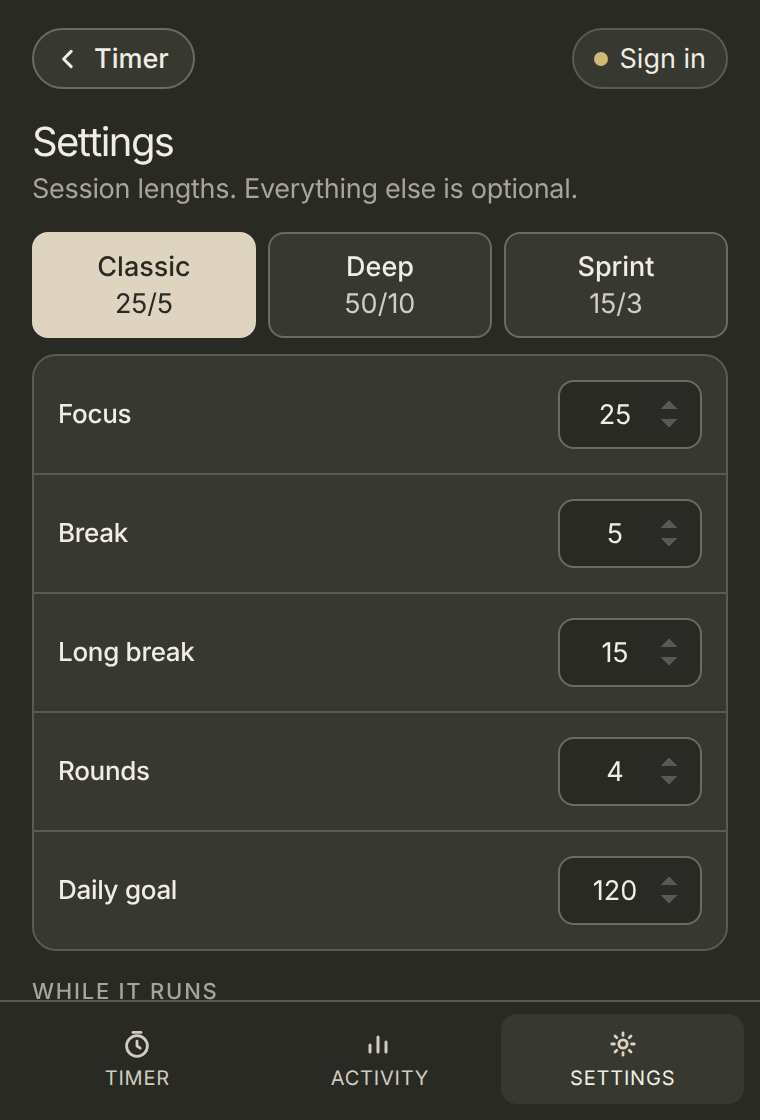
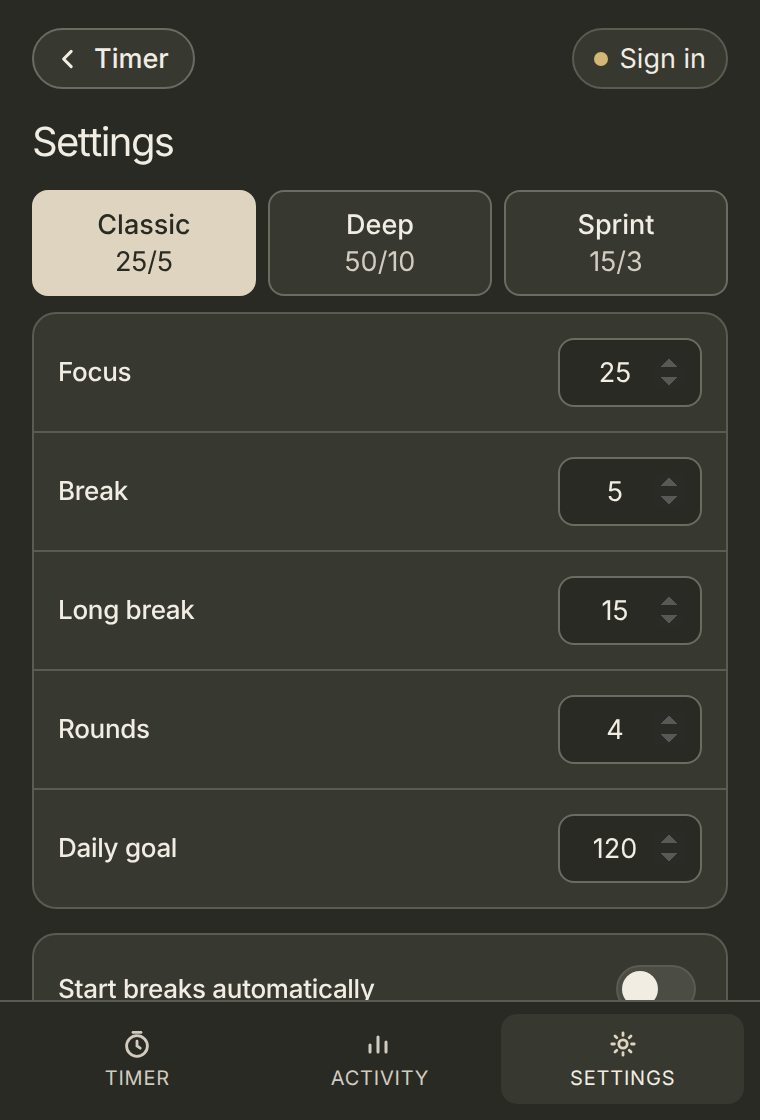
Cut the fragment captions from Settings and the README
No more 'session lengths first' notes or 'while it runs' kickers. The README is the product description and how to load it. Settings is just Settings.

diff --git a/src/popup/main.tsx b/src/popup/main.tsx
@@ -672,7 +672,6 @@ const App = () => {
             <div className="heading tight">
               <div>
                 <h1>Settings</h1>
-                <p>Session lengths. Everything else is optional.</p>
               </div>
             </div>
 
@@ -727,7 +726,6 @@ const App = () => {
             </section>
 
             <section className="settings-block">
-              <div className="settings-kicker">While it runs</div>
               <div className="settings-cluster">
                 <label className="settings-row">
                   <span className="settings-label">Start breaks automatically</span>

diff --git a/README.md b/README.md
@@ -28,19 +28,11 @@ Activity has today, your week, and your streak. Week is a bar chart. Month is a 
 
 ![Using Lahza](docs/demo.gif)
 
----
-
 ## Install
 
-[Download `lahza.zip`](release/lahza.zip). Unzip it.
+[Download `lahza.zip`](release/lahza.zip). Unzip it. In Chrome, open `chrome://extensions`, turn on Developer mode, and click **Load unpacked**. Choose the unzipped folder — the one that contains `manifest.json`. Pin Lahza.
 
-1. `chrome://extensions`
-2. Developer mode on
-3. **Load unpacked**
-4. Pick the folder that contains `manifest.json`
-5. Pin **Lahza**
-
-From source:
+To build from source you need [Node.js](https://nodejs.org/) 18 or newer:
 
 ```bash
 git clone https://github.com/shahjacobb/Lazha.git
@@ -49,20 +41,6 @@ npm install
 npm run build
 ```
 
-Load unpacked on **`dist`**. After you change code: `npm run build`, then **Reload**.
+Then load unpacked on the `dist` folder. After you edit the code, run `npm run build` again and click **Reload** on the extension card.
 
----
-
-## Notes
-
-The popup is Timer, Activity, and Settings. Settings has **← Timer** at the top. Session lengths first; sound and auto-start under that; account last.
-
-Cloud sync is optional. Wire it once with `docs/supabase.md`. Without that, the timer still works on this profile.
-
-Store listing paste: `docs/store/listing.md`. Color system: `docs/color-system.pdf`.
-
-```bash
-npm run build      # typecheck + dist/
-npm run package    # build + lahza.zip
-npm run preview    # Vite, /popup.html
-```
+Cloud sync is optional. If you want it, follow `docs/supabase.md`. The timer works without an account.
